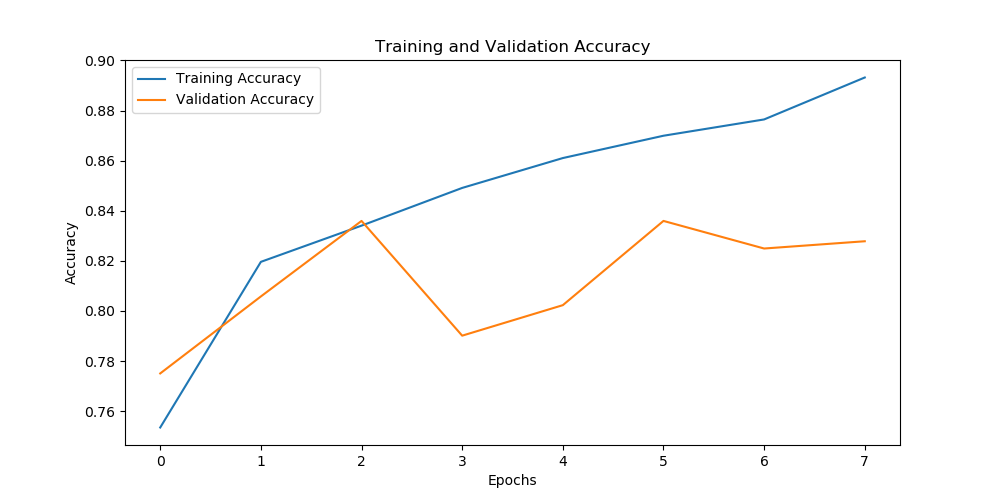
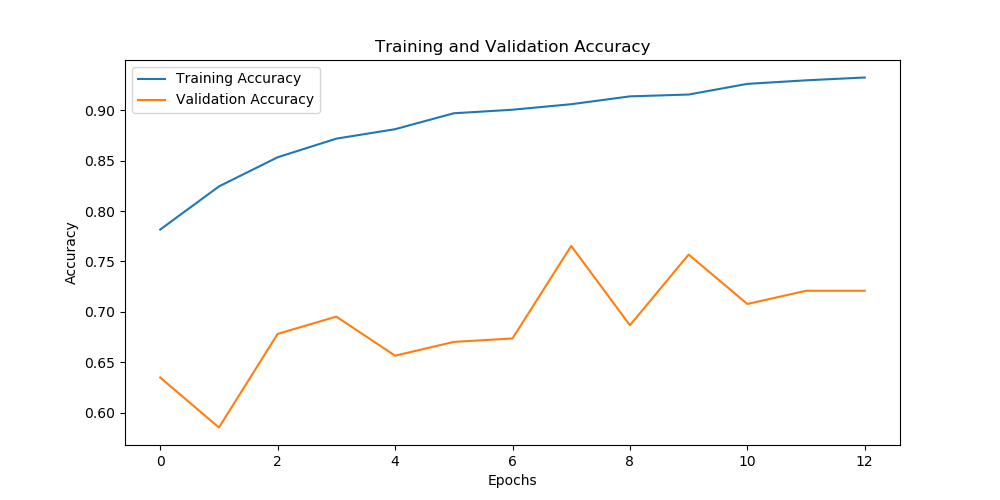
trainig changes

diff --git a/ensemble_model_average_logit.py b/ensemble_model_average_logit.py
@@ -24,6 +24,7 @@ import matplotlib.pyplot as plt
 from datetime import datetime
 from torch.nn.parallel import DataParallel
 from torch.optim.lr_scheduler import ReduceLROnPlateau
+import joblib
 
 # Define device
 if torch.cuda.is_available():
@@ -91,7 +92,7 @@ class MobileNetV3Small_RNN(nn.Module):
         return logits
     
 rnn_model = MobileNetV3Small_RNN(num_classes=2, rnn_type="LSTM")
-state_dict = torch.load('../cnn_rnn/light_cnn_last_lstm_7e_drop_lr5e-05.pt', map_location=device)
+state_dict = torch.load('../light_cnn_last_model_25r.pt', map_location=device)
 state_dict = {k.partition('module.')[2] if k.startswith('module.') else k: v for k, v in state_dict.items()}
 rnn_model.load_state_dict(state_dict)
 rnn_model = rnn_model.to(device)
@@ -99,9 +100,11 @@ rnn_model.eval()
 
 
 clip_model, preprocess = clip.load('ViT-B/16', device, jit=False)
-state_dict = torch.load('../clip_fully_supervised/fs_best_model_5e_5p.pt', map_location=device)
+state_dict = torch.load('../fs_best_model_61r.pt', map_location=device)
 clip_model.load_state_dict(state_dict)
 clip_model.eval()
+
+logreg_model = joblib.load('../uva_thesis_project/final_logreg_model_best_61r.sav')
 
 class ImageTitleDataset(Dataset):
     def __init__(self, list_video_path, list_labels, rnn_transform_image, clip_transform_image):
@@ -271,7 +274,7 @@ if device == "cpu":
   clip_model.float()
 
 class CLIP_MobileNetV3_RNN_Ensemble(nn.Module):
-    def __init__(self, clip_model, mobilenet_rnn_model, dataloader):
+    def __init__(self, clip_model, mobilenet_rnn_model):
         super(CLIP_MobileNetV3_RNN_Ensemble, self).__init__()
         #set the models
         self.clip_model = clip_model
@@ -282,13 +285,9 @@ class CLIP_MobileNetV3_RNN_Ensemble(nn.Module):
         for param in self.mobilenet_rnn_model.parameters():
             param.requires_grad = False
 
-        #dataloader with preprocessed videos
-        self.dataloader = dataloader
-
-    def forward(self, frames, label, image, classname, w_clip = 1,  w_cnn = 1, ):
+    def forward(self, frames, image, classname, w_clip = 1,  w_cnn = 1 ):
         #send all data to device
         images = image.to(device)
-        labels = label.to(device)
         frames = frames.to(device)
         #get clip logits
         text_inputs = clip.tokenize(classname,context_length=77, truncate=True).to(device)
@@ -306,7 +305,41 @@ class CLIP_MobileNetV3_RNN_Ensemble(nn.Module):
 
         return combined_logits
 
-ensemble_model = CLIP_MobileNetV3_RNN_Ensemble(clip_model, rnn_model, test_dataloader)
+class CLIP_GLIN_MobileNetV3_RNN_Ensemble(nn.Module):
+    def __init__(self, clip_model, mobilenet_rnn_model, logreg_model):
+        super(CLIP_GLIN_MobileNetV3_RNN_Ensemble, self).__init__()
+        #set the models
+        self.clip_model = clip_model
+        self.mobilenet_rnn_model = mobilenet_rnn_model
+        self.logreg_model = logreg_model
+
+        for param in self.clip_model.parameters():
+            param.requires_grad = False
+        for param in self.mobilenet_rnn_model.parameters():
+            param.requires_grad = False
+
+
+    def forward(self, frames, image, classname, w_clip = 1,  w_cnn = 1 ):
+        #send all data to device
+        images = image.to(device)
+        frames = frames.to(device)
+        #get clip logits
+        features = self.clip_model.encode_image(images.to(device)).cpu().numpy()
+        clip_glin_pred = self.logreg_model.predict_proba(features)
+        clip_glin_pred = torch.tensor(clip_glin_pred).to(device)
+        #to get the logits instead of the probabilites (this is the formula to capture logits)
+        clip_glin_pred = torch.log(clip_glin_pred / (1 - clip_glin_pred))
+
+        #get mobilenet-rnn logits
+        rnn_logits = self.mobilenet_rnn_model(frames)
+
+        #combine logits
+        combined_logits = ( w_clip * clip_glin_pred + w_cnn * rnn_logits)/2
+
+        return combined_logits
+
+#ensemble_model = CLIP_MobileNetV3_RNN_Ensemble(clip_model, rnn_model)
+ensemble_model = CLIP_GLIN_MobileNetV3_RNN_Ensemble(clip_model, rnn_model, logreg_model)
 
 def evaluate_model(model, dataloader, device):
     model.eval()
@@ -316,7 +349,7 @@ def evaluate_model(model, dataloader, device):
     with torch.no_grad():
         for frames, label, image in dataloader:
             
-            outputs = model(frames, label, image, class_names,  1 , 1)
+            outputs = model(frames, image, class_names,  1 , 1)
             _, preds = torch.max(outputs, 1)
             
             all_preds.extend(preds.cpu().numpy())

diff --git a/cnn_rnn.py b/cnn_rnn.py
@@ -89,7 +89,7 @@ class MobileNetV3Small_RNN(nn.Module):
         rnn_out, _ = self.rnn(features)
         
         #dropout layer
-        rnn_out = self.dropout(rnn_out)
+        #rnn_out = self.dropout(rnn_out)
 
         #batch, timesteps, output features
         #only select the last of the timesteps as it holds the information of the whole video
@@ -165,9 +165,9 @@ def load_data(split_path):
         data = json.load(f)
     return pd.DataFrame(data)
 
-train_data = load_data('data/split/metadata_train_split_by_date.json')
-val_data = load_data('data/split/metadata_validation_split_by_date.json')
-test_data = load_data('data/split/metadata_test_split_by_date.json')
+train_data = load_data('data/split/metadata_train_split_0_by_camera.json')
+val_data = load_data('data/split/metadata_validation_split_0_by_camera.json')
+test_data = load_data('data/split/metadata_test_split_0_by_camera.json')
 
 # Prepare the list of video file paths and labels
 #Prepare the list of video file paths and labels
@@ -220,12 +220,12 @@ num_epochs = 50
 #optimizer = torch.optim.Adam(model.parameters(), lr=0.0005)
 #optimizer: third trainings:
 #optimizer = torch.optim.Adam(model.parameters(), lr=0.0005, weight_decay=1e-4)
-optimizer = torch.optim.Adam(model.parameters(), lr=0.0001, betas=(0.9,0.98),eps=1e-6,weight_decay=1e-4)
+optimizer = torch.optim.Adam(model.parameters(), lr=5e-4, betas=(0.9,0.98),eps=1e-6,weight_decay=1e-6)
 loss = nn.CrossEntropyLoss()
 #second_option_scheduler:
 #scheduler = ReduceLROnPlateau(optimizer, mode='min', factor=0.1, patience=5, verbose=True)
 #third_option_scheduler:
-scheduler = torch.optim.lr_scheduler.CosineAnnealingLR(optimizer, T_max=5)
+#scheduler = torch.optim.lr_scheduler.CosineAnnealingLR(optimizer, T_max=10)
 #4. option:
 #scheduler = ReduceLROnPlateau(optimizer, mode='min', factor=0.5, patience=3, verbose=True)
 #scheduler = optim.lr_scheduler.CosineAnnealingLR(optimizer, len(train_dataloader)*num_epochs)
@@ -312,9 +312,6 @@ for epoch in range(num_epochs):
             all_preds.extend(pred_labels.cpu().numpy())
             all_labels.extend(labels.cpu().numpy())
 
-            # Append loss
-            val_losses.append(val_loss.item())
-        
             # Update the progress bar with the current epoch and loss
             vbar.set_description(f"Validation: {i}/{len(val_dataloader)}, Validation loss: {val_loss.item():.4f}")
             i+=1
@@ -326,7 +323,7 @@ for epoch in range(num_epochs):
     val_accuracies.append(val_accuracy)
     train_losses.append(te_loss)
     
-    scheduler.step(te_loss)
+    #scheduler.step(te_loss)
 
     # Calculate confusion matrix
     conf_matrix = confusion_matrix(all_labels, all_preds)
@@ -350,14 +347,14 @@ for epoch in range(num_epochs):
     if te_loss < best_te_loss:
         best_te_loss = te_loss
         best_ep = epoch
-        torch.save(model.state_dict(), "../light_cnn_best_model.pt")
+        torch.save(model.state_dict(), "../light_cnn_best_model_gru_s0.pt")
         early_stopping_counter = 0 
     else:
         early_stopping_counter += 1
 
     print(f"epoch {epoch}, tr_loss {tr_loss}, te_loss {te_loss}")
 
-    torch.save(model.state_dict(), "../light_cnn_last_model.pt")
+    torch.save(model.state_dict(), "../light_cnn_last_model_gru_s0.pt")
 
     if early_stopping_counter >= early_stopping_patience:
         print(f"Early stopping after {epoch + 1} epochs.")
@@ -414,7 +411,7 @@ print(f"Test Precision: {precision:.4f}")
 print(f"Test Recall: {recall:.4f}")
 print(f"Test F1 Score: {f_score:.4f}")
 
-print("CLIP model parameters:", f"{np.sum([int(np.prod(p.shape)) for p in model.parameters()]):,}")
+print("Model parameters:", f"{np.sum([int(np.prod(p.shape)) for p in model.parameters()]):,}")
 
 # Classification report
 target_names = ['class 0', 'class 1']

diff --git a/clip_zeroshot.py b/clip_zeroshot.py
@@ -23,15 +23,15 @@ from datetime import datetime
 
 start_time = datetime.now()
 
-'''# Define device
+# Define device
 if torch.cuda.is_available():
     device = torch.device("cuda") # use CUDA device
 #elif torch.backends.mps.is_available():
 #    device = torch.device("mps") # use MacOS GPU device (e.g., for M2 chips)
 else:
-    device = torch.device("cpu") # use CPU device'''
+    device = torch.device("cpu") # use CPU device
 
-device = torch.device("cpu") # use CPU device
+#device = torch.device("cpu") # use CPU device
 print(device)
 
 #Load CLIP model - ViT B32
@@ -107,7 +107,7 @@ class ImageTitleDataset(Dataset):
 # Load the JSON metadata
 #with open('data/datasets/experimental_ijmond_dataset.json', 'r') as f:
 #    train_data = json.load(f)
-with open('data/split/metadata_test_split_by_date.json', 'r') as f:
+with open('data/split/metadata_test_split_4_by_camera.json', 'r') as f:
     test_data = json.load(f)
 # Convert the dataset to a Pandas DataFrame
 test_data = pd.DataFrame(test_data)
@@ -119,14 +119,14 @@ list_labels = [int(label) for label in test_data['label']]
 #class_names = ["a photo of a factory with no smoke", "a photo of a smoking factory"] #1
 #class_names = ["a series picture of a factory with a shut down chimney", "a series picture of a smoking factory chimney"] #- 2
 #class_names = ["a photo of factories with clear sky above chimney", "a photo of factories emitting smoke from chimney"] #- 3
-class_names = ["a photo of a factory with no smoke", "a photo of a factory with smoke emission"] #- 4
+#class_names = ["a photo of a factory with no smoke", "a photo of a factory with smoke emission"] #- 4
 #class_names = ["a series picture of a factory with clear sky above chimney", "a series picture of a smoking factory"] #- 5
 #class_names = ["a series picture of a factory with no smoke", "a series picture of a smoking factory"] #- 6
 #class_names = ["a sequential photo of an industrial plant with clear sky above chimney, created from a video", "a sequential photo of an industrial plant emitting smoke from chimney, created from a video"]# - 7
 #class_names = ["a photo of a shut down chimney", "a photo of smoke chimney"] #-8
 #class_names = ["The industrial plant appears to be in a dormant state, with no smoke or emissions coming from its chimney. The air around the facility is clear and clean.","The smokestack of the factory is emitting dark or gray smoke against the sky. The emissions may be a result of industrial activities within the facility."] #-9
 #class_names = ["a photo of an industrial site with no visible signs of pollution", "a photo of a smokestack emitting smoke against the sky"] #-10
-#class_names = ['no smoke', 'smoke'] #11
+class_names = ['no smoke', 'smoke'] #11
 #class_names = ['a photo of an industrial facility, emitting no smoke', 'a photo of an industrial facility, emitting smoke'] #12
 
 # Define input resolution

diff --git a/ensemble_with_stacking.py b/ensemble_with_stacking.py
@@ -92,8 +92,8 @@ class MobileNetV3Small_RNN(nn.Module):
         
         return logits
     
-rnn_model = MobileNetV3Small_RNN(num_classes=2, rnn_type="GRU")
-state_dict = torch.load('../cnn_rnn/light_cnn_last_model_gru_11e.pt', map_location=device)
+rnn_model = MobileNetV3Small_RNN(num_classes=2, rnn_type="LSTM")
+state_dict = torch.load('../light_cnn_last_model_25r.pt', map_location=device)
 state_dict = {k.partition('module.')[2] if k.startswith('module.') else k: v for k, v in state_dict.items()}
 rnn_model.load_state_dict(state_dict)
 rnn_model = rnn_model.to(device)
@@ -101,11 +101,11 @@ rnn_model.eval()
 
 
 clip_model, preprocess = clip.load('ViT-B/16', device, jit=False)
-state_dict = torch.load('../clip_fully_supervised/fs_best_model_5e_5p.pt', map_location=device)
+state_dict = torch.load('../fs_best_model_61r.pt', map_location=device)
 clip_model.load_state_dict(state_dict)
 clip_model.eval()
 
-logreg_model = joblib.load('../clip_lin/final_logreg_model_last_5e5pbestmodel.sav')
+logreg_model = joblib.load('../uva_thesis_project/final_logreg_model_best_61r.sav')
 
 class ImageTitleDataset(Dataset):
     def __init__(self, list_video_path, list_labels, rnn_transform_image, clip_transform_image):
@@ -238,8 +238,8 @@ rnn_val_test_transform = transforms.Compose([
 #class_names = ["a photo of a factory with no smoke", "a photo of a smoking factory"] #1
 #class_names = ["a series picture of a factory with a shut down chimney", "a series picture of a smoking factory chimney"] #- 2
 #class_names = ["a photo of factories with clear sky above chimney", "a photo of factories emiting smoke from chimney"] #- 3
-#class_names = ["a photo of a factory with no smoke", "a photo of a smoking factory"] #- 4
-class_names = ["a series picture of a factory with clear sky above chimney", "a series picture of a smoking factory"] #- 5
+class_names = ["a photo of a factory with no smoke", "a photo of a smoking factory"] #- 4
+#class_names = ["a series picture of a factory with clear sky above chimney", "a series picture of a smoking factory"] #- 5
 #class_names = ["a series picture of a factory with no smoke", "a series picture of a smoking factory"] #- 6
 #class_names = ["a sequental photo of an industrial plant with clear sky above chimney, created from a video", "a sequental photo of an industrial plant emiting smoke from chimney, created from a video"]# - 7
 #class_names = ["a photo of a shut down chimney", "a photo of smoke chimney"] #-8

diff --git a/clip_few_shot.py b/clip_few_shot.py
@@ -122,8 +122,8 @@ test_list_labels = [int(label) for label in test_data['label']]
 #class_names = ["a photo of a factory with no smoke", "a photo of a smoking factory"] #1
 #class_names = ["a series picture of a factory with a shut down chimney", "a series picture of a smoking factory chimney"] #- 2
 #class_names = ["a photo of factories with clear sky above chimney", "a photo of factories emiting smoke from chimney"] #- 3
-#class_names = ["a photo of a factory with no smoke", "a photo of a factory with smoke emission"] #- 4
-class_names = ["a series picture of a factory with clear sky above chimney", "a series picture of a smoking factory"] #- 5
+class_names = ["a photo of a factory with no smoke", "a photo of a factory with smoke emission"] #- 4
+#class_names = ["a series picture of a factory with clear sky above chimney", "a series picture of a smoking factory"] #- 5
 #class_names = ["a series picture of a factory with no smoke", "a series picture of a smoking factory"] #- 6
 #class_names = ["a sequental photo of an industrial plant with clear sky above chimney, created from a video", "a sequental photo of an industrial plant emiting smoke from chimney, created from a video"]# - 7
 #class_names = ["a photo of a shut down chimney", "a photo of smoke chimney"] #-8
@@ -181,8 +181,9 @@ if device == "cpu":
 num_epochs = 1
 
 # Prepare the optimizer - the lr, betas, eps and weight decay are from the CLIP paper
-#optimizer = torch.optim.Adam(model.parameters(), lr=1e-5,betas=(0.9,0.98),eps=1e-6,weight_decay=0.2)
-optimizer = torch.optim.Adam(model.parameters(), lr=5e-6,betas=(0.9,0.98),eps=1e-6,weight_decay=0.001)
+optimizer = torch.optim.Adam(model.parameters(), lr=1e-5,betas=(0.9,0.98),eps=1e-6,weight_decay=0.2)
+#optimizer = torch.optim.Adam(model.parameters(), lr=5e-6,betas=(0.9,0.98),eps=1e-6,weight_decay=0.001)
+#optimizer = torch.optim.Adam(model.parameters(), lr=5e-5,betas=(0.9,0.98),eps=1e-6,weight_decay=0.001)
 #scheduler = optim.lr_scheduler.CosineAnnealingLR(optimizer, len(train_dataloader)*num_epochs)
 
 # Specify the loss functions - for images and for texts

diff --git a/clip_fully_supervised.py b/clip_fully_supervised.py
@@ -105,10 +105,13 @@ def load_data(split_path):
         data = json.load(f)
     return pd.DataFrame(data)
 
-train_data = load_data('data/split/metadata_train_split_by_date.json')
+'''train_data = load_data('data/split/metadata_train_split_by_date.json')
 val_data = load_data('data/split/metadata_validation_split_by_date.json')
-test_data = load_data('data/split/metadata_test_split_by_date.json')
+test_data = load_data('data/split/metadata_test_split_by_date.json')'''
 
+train_data = load_data('data/split/metadata_train_split_0_by_camera.json')
+val_data = load_data('data/split/metadata_validation_split_0_by_camera.json')
+test_data = load_data('data/split/metadata_test_split_0_by_camera.json')
 
 #Prepare the list of video file paths and labels
 def prepare_paths_labels(data, base_path):
@@ -172,15 +175,14 @@ if device == "cpu":
   model.float()
 
 #Define number of epochs
-num_epochs = 25
+num_epochs = 5
 
 # Prepare the optimizer - the lr, betas, eps and weight decay are from the CLIP paper
-optimizer = torch.optim.Adam(model.parameters(), lr=1e-5,betas=(0.9,0.98),eps=1e-6,weight_decay=0.01)
+optimizer = torch.optim.Adam(model.parameters(), lr=1e-5,betas=(0.9,0.98),eps=1e-6,weight_decay=0.001)
 #optimizer = torch.optim.Adam(model.parameters(), lr=1e-5,betas=(0.9,0.98),eps=1e-6,weight_decay=0.2)
 #Different tried schedulers:
 #scheduler = torch.optim.lr_scheduler.CosineAnnealingLR(optimizer, len(train_dataloader)*num_epochs)
-scheduler = torch.optim.lr_scheduler.CosineAnnealingLR(optimizer, T_max=5)
-#scheduler = CosineAnnealingWarmRestarts(optimizer, T_0=10, T_mult=2)
+#scheduler = torch.optim.lr_scheduler.CosineAnnealingLR(optimizer, T_max=10)
 #scheduler = ReduceLROnPlateau(optimizer, mode='min', factor=0.5, patience=2, verbose=True)
 
 

diff --git a/clip_linear_gridsearch.py b/clip_linear_gridsearch.py
@@ -36,7 +36,7 @@ print('Used device: ', device)
 model, preprocess = clip.load('ViT-B/16', device, jit=False)
 
 #state_dict = torch.load('../clip_fully_supervised/fs_best_model_11e_4p.pt', map_location=device)
-state_dict = torch.load('../clip_fully_supervised/fs_best_model_5e_5p.pt', map_location=device)
+state_dict = torch.load('../fs_last_model_60r.pt', map_location=device)
 model.load_state_dict(state_dict)
 
 # Load the dataset
@@ -207,7 +207,7 @@ def visualize_features(features, labels, title):
     plt.scatter(reduced_features[:, 0], reduced_features[:, 1], c=labels, cmap='viridis', alpha=0.5)
     plt.colorbar()
     plt.title(title)
-    plt.savefig('best_features_examples-reduceplato.png')
+    plt.savefig('best_features_examples_60best.png')
     plt.close()
 
 #visualize_features(test_features, test_labels, 'Test Features')
